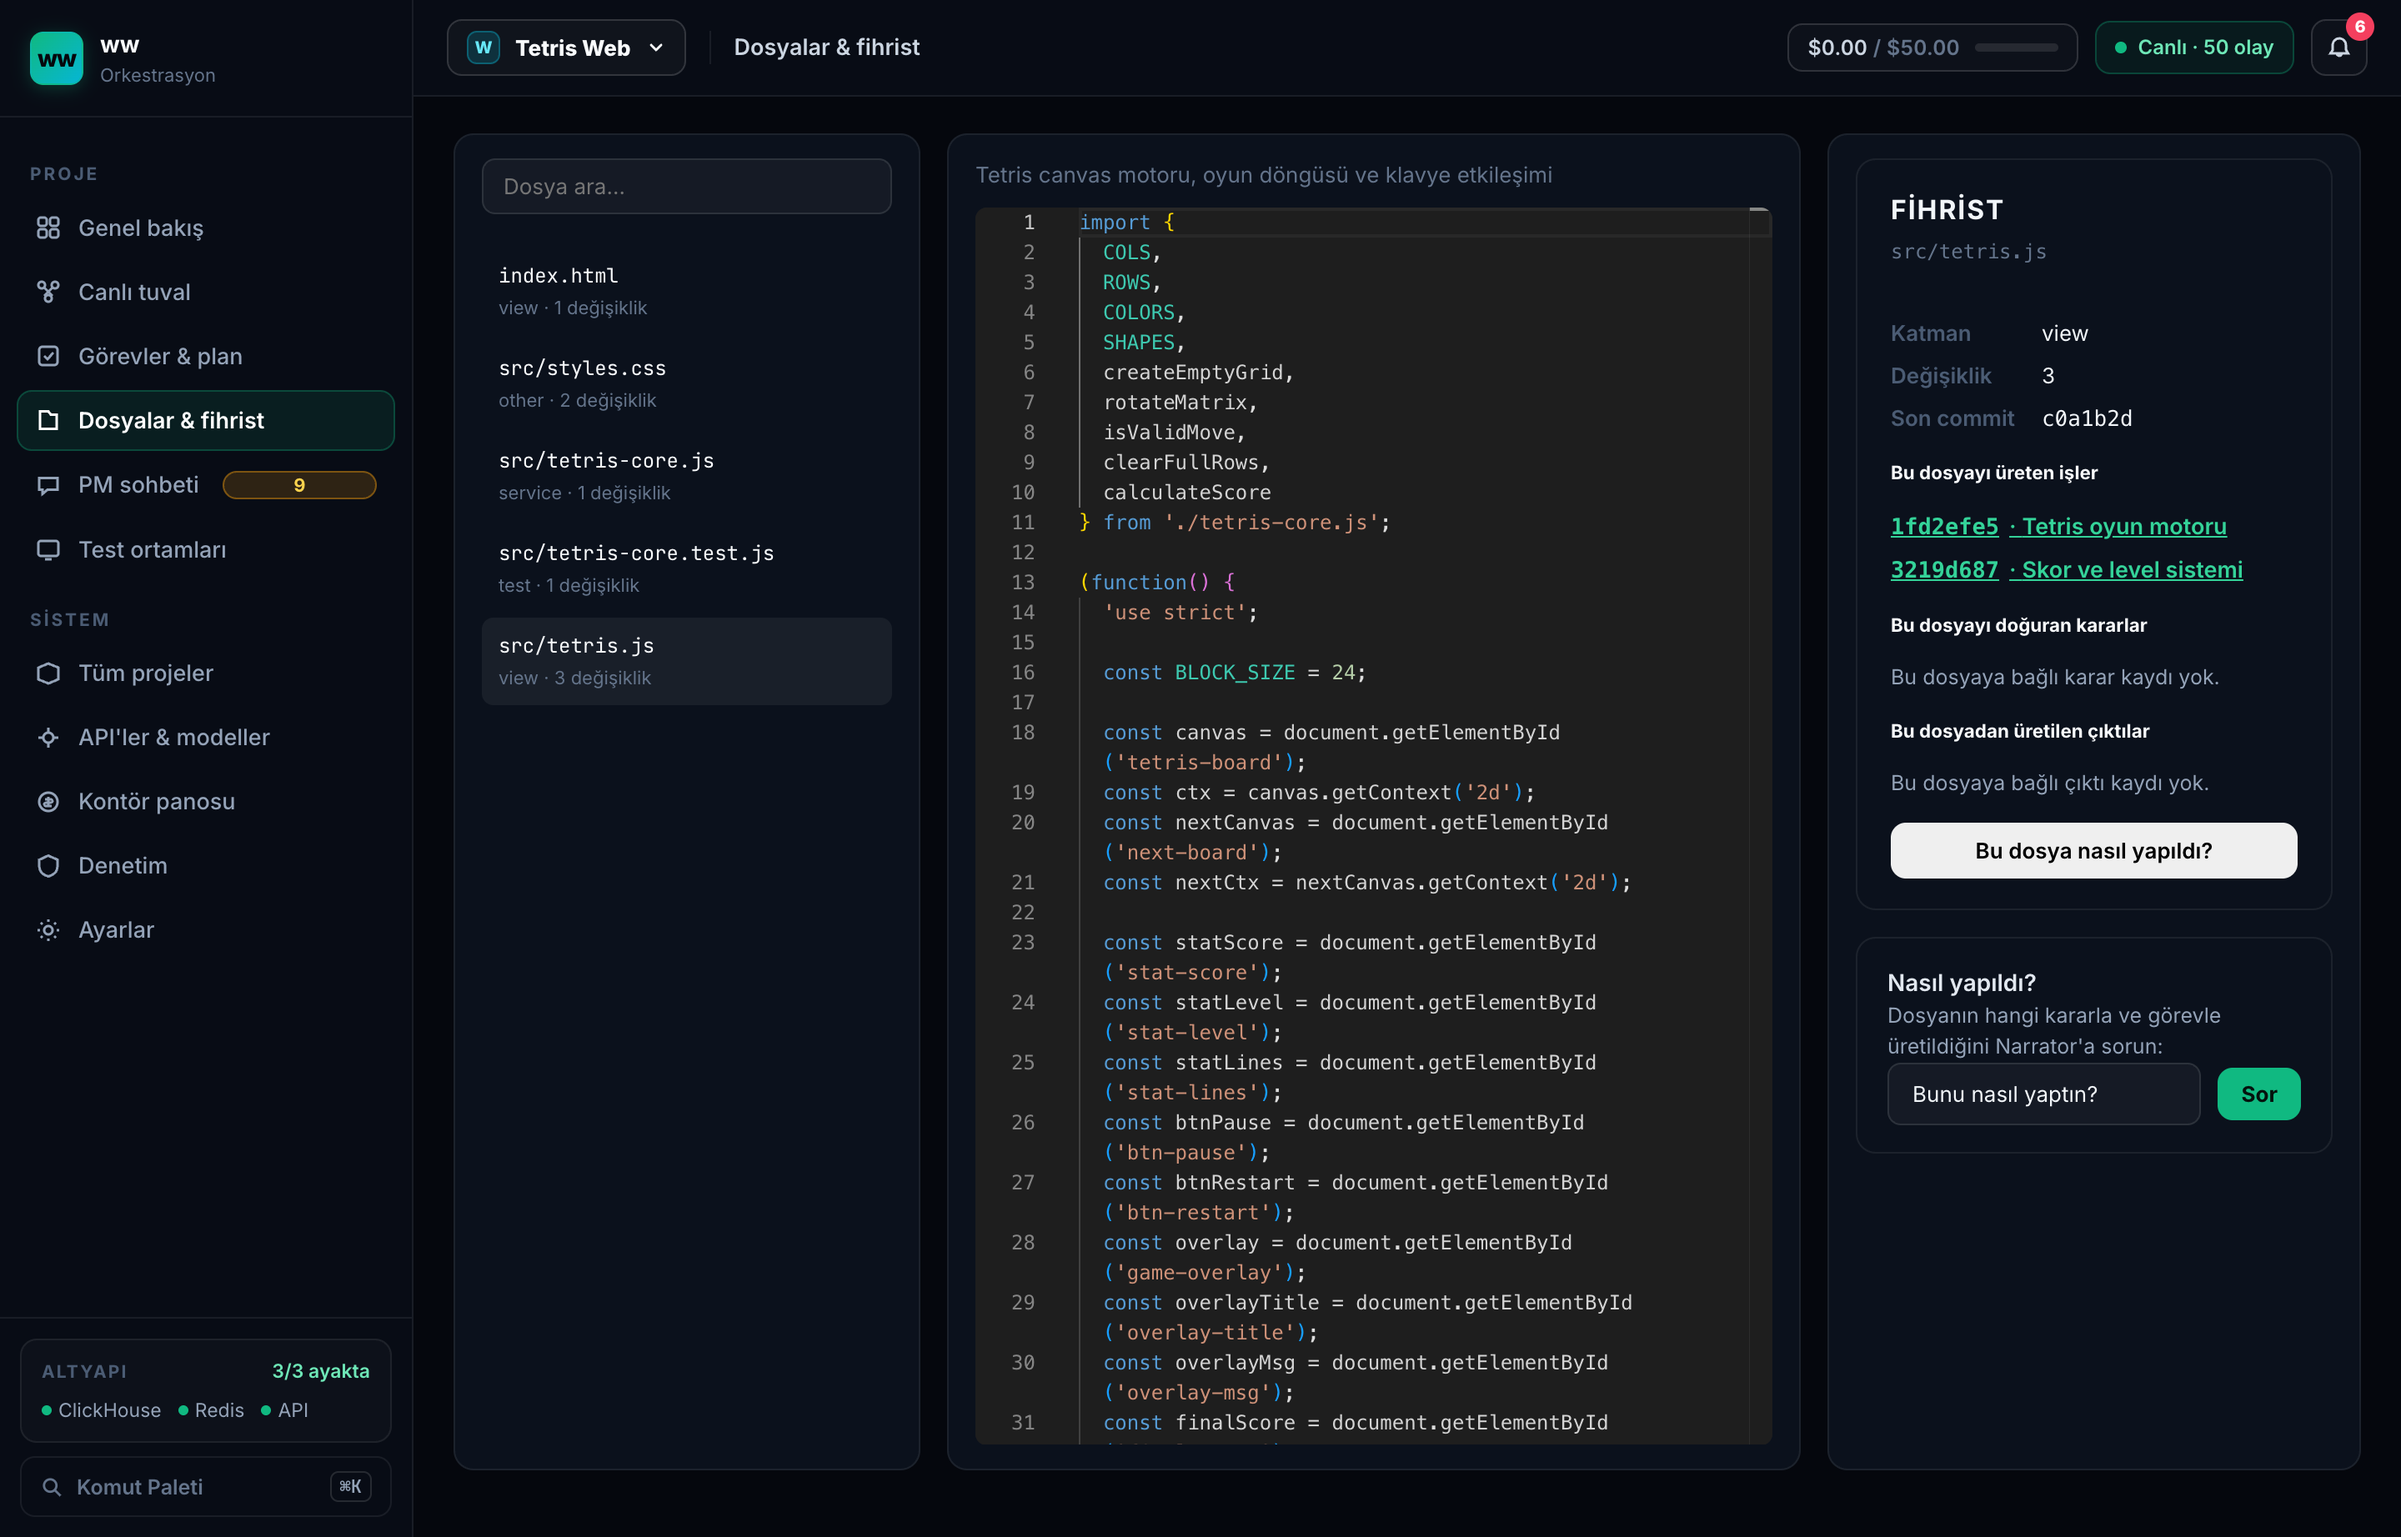
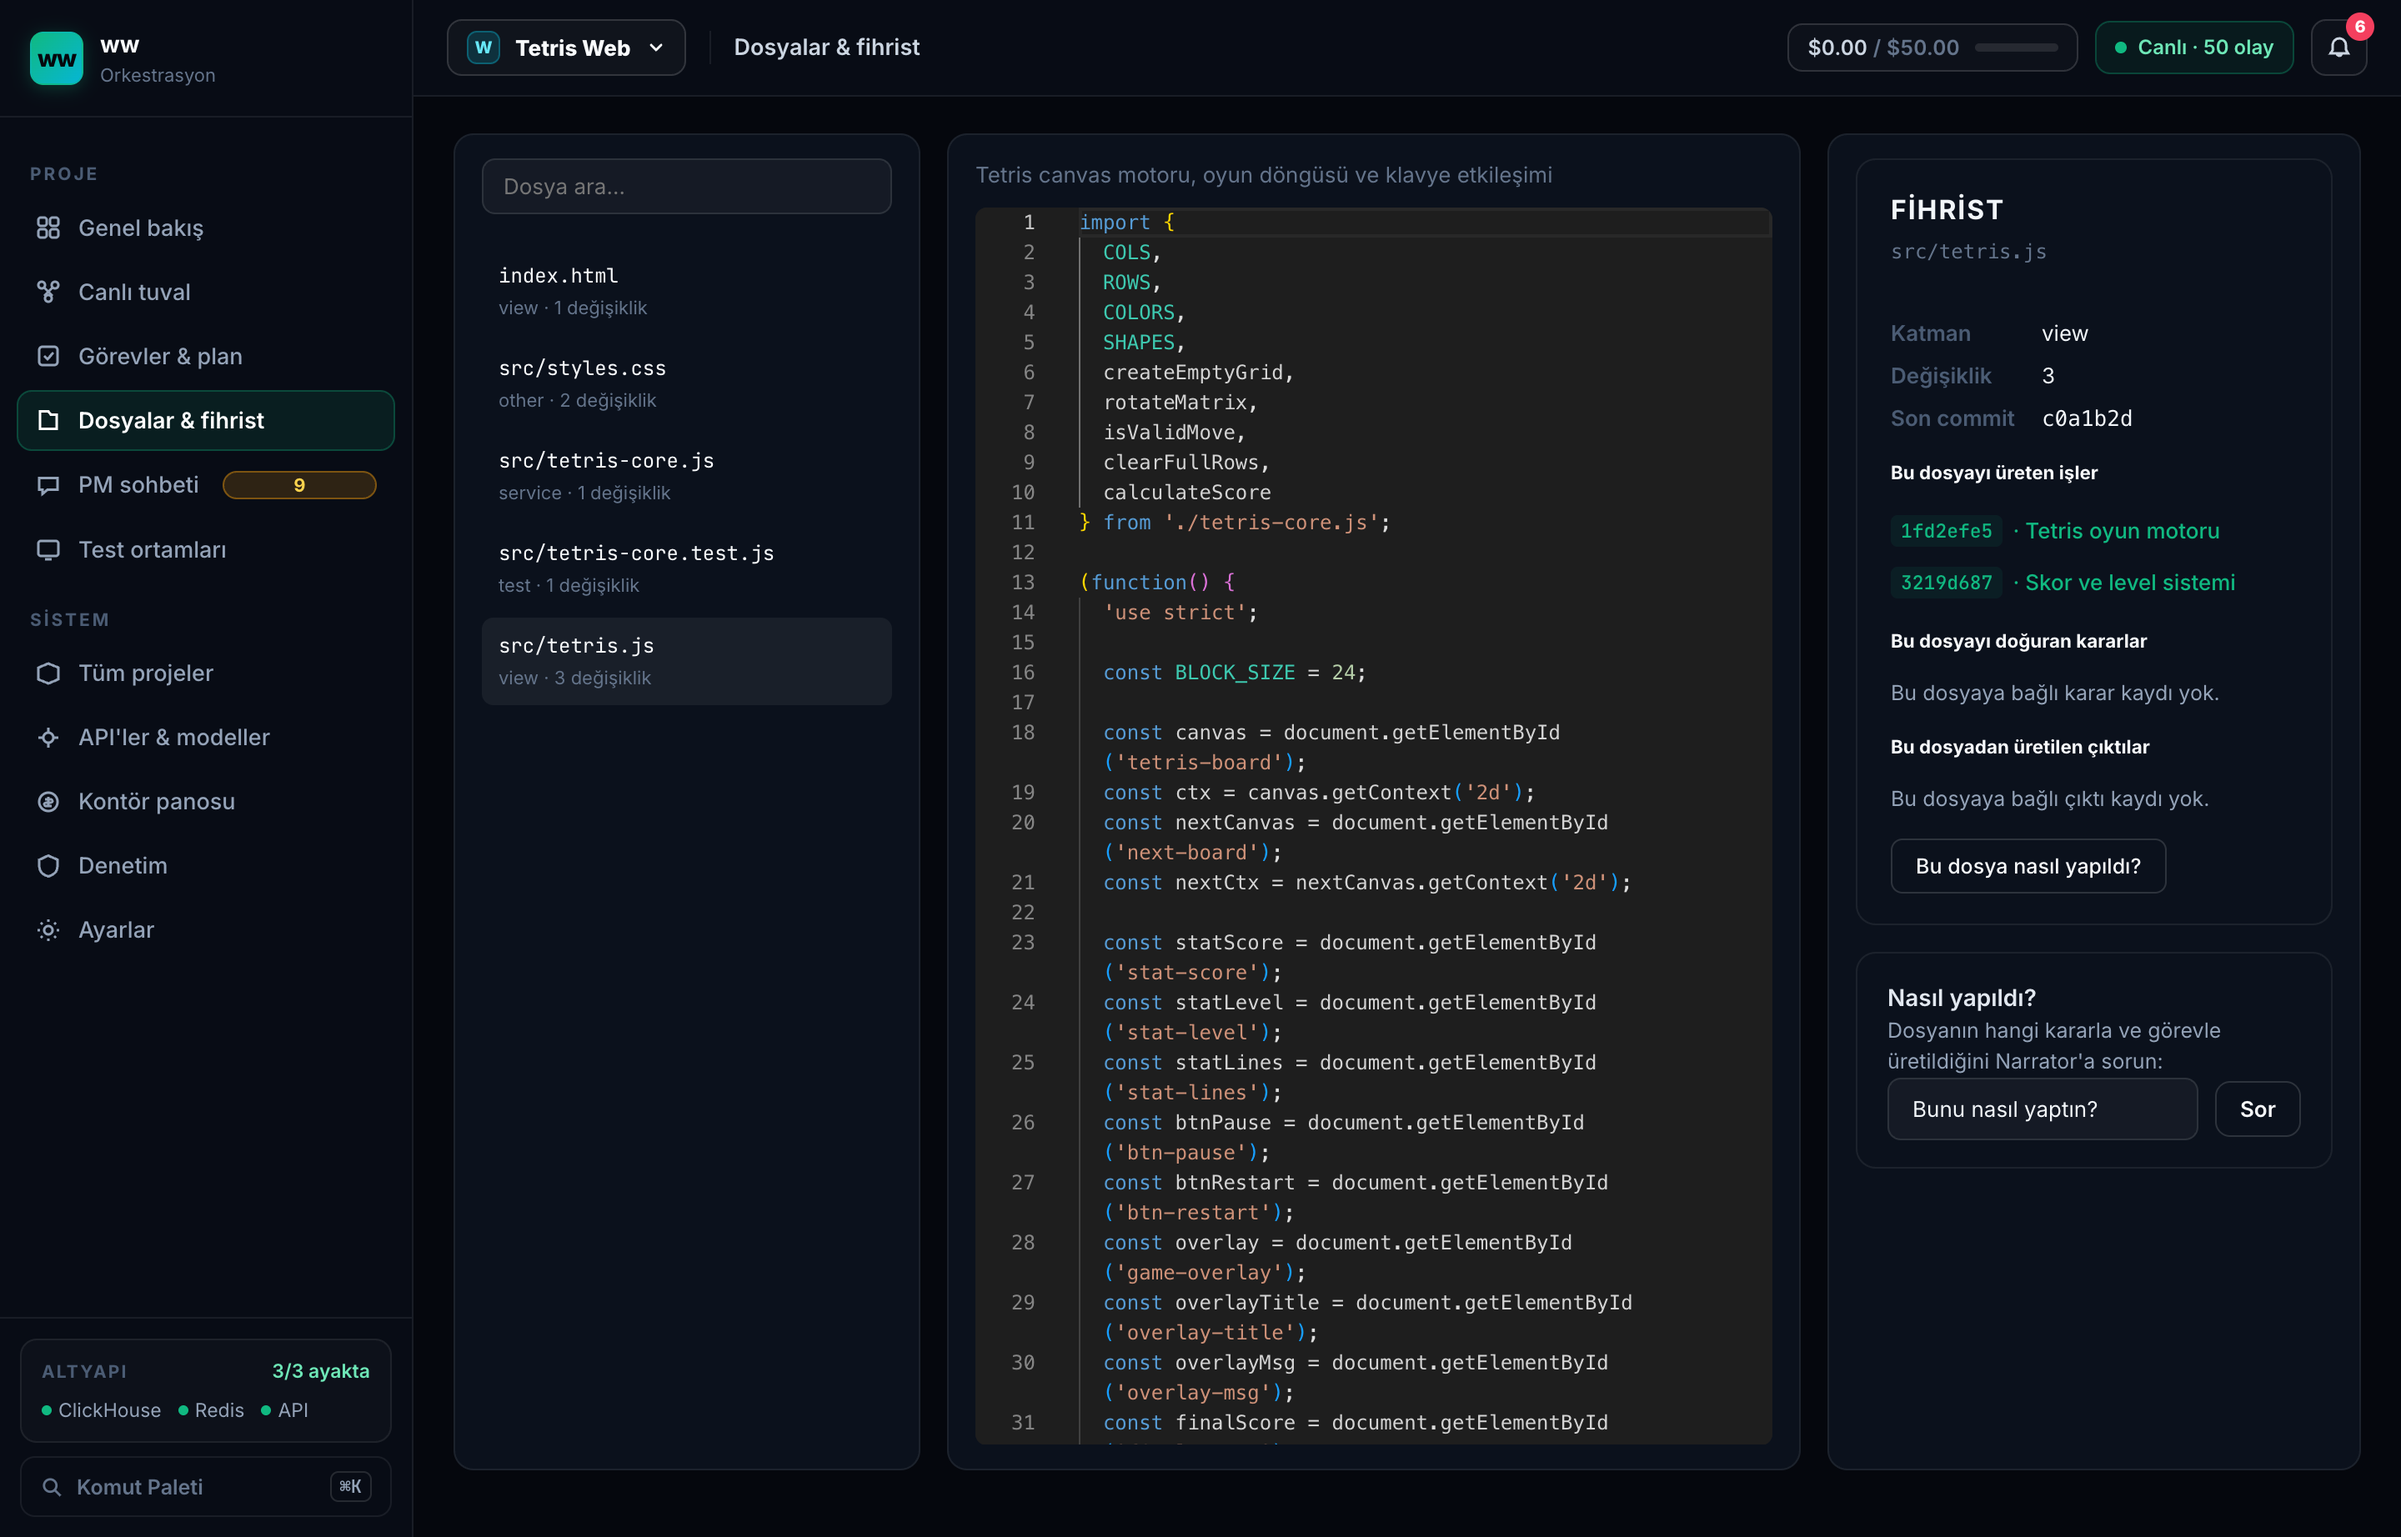
panel: fihrist butonlari, gorev baglantilari ve ikincil buton stilleri duzeltildi
- Fihrist Butonu: 'Bu dosya nasil yapildi?' butonu beyazdan seffaf cerceveli secondary stile donusturuldu.
- Gorev Baglantilari: Fihristteki gorev baglantilari accent yesili ve temiz linklike stiline kavusturuldu.
- Buton Hiyerarsisi: Dosyalar ekranindaki 'Sor' butonu ikincil yapildi; paneldeki tum button fallback'leri seffaf dark temaya sabitlendi.

Changed region(s): [[0.7812, 0.34, 0.9688, 0.5873], [0.7812, 0.6182, 0.9688, 0.7419]]

diff --git a/apps/panel/src/styles.css b/apps/panel/src/styles.css
@@ -758,7 +758,9 @@ button {
   align-items: center;
   justify-content: center;
   gap: 6px;
-  border: 1px solid transparent;
+  border: 1px solid rgba(255, 255, 255, 0.14);
+  background: rgba(255, 255, 255, 0.04);
+  color: #f8fafc;
 }
 
 .btn--primary {
@@ -3657,4 +3659,66 @@ input:focus, select:focus, textarea:focus {
 .role-model-table button:disabled {
   opacity: 0.35;
   cursor: not-allowed;
+}
+
+/* Fihrist Tasks and Action Buttons */
+.fihrist > button {
+  background: transparent;
+  border: 1px solid rgba(255, 255, 255, 0.14);
+  color: #f8fafc;
+  font-size: 12.5px;
+  font-weight: 500;
+  padding: 8px 14px;
+  border-radius: var(--radius-sm, 6px);
+  cursor: pointer;
+  transition: background var(--transition, 0.15s ease), border-color var(--transition, 0.15s ease);
+  display: inline-flex;
+  align-items: center;
+  justify-content: center;
+  width: auto;
+  align-self: flex-start;
+}
+.fihrist > button:hover:not(:disabled) {
+  background: rgba(255, 255, 255, 0.05);
+  border-color: rgba(255, 255, 255, 0.25);
+}
+.fihrist > button:disabled {
+  opacity: 0.5;
+  cursor: not-allowed;
+}
+
+.fihrist__tasks button,
+.fihrist__tasks button.linklike {
+  background: transparent;
+  border: none;
+  padding: 3px 0;
+  color: var(--accent, #34d399);
+  font-size: 13px;
+  font-weight: 500;
+  text-decoration: none;
+  cursor: pointer;
+  display: inline-flex;
+  align-items: center;
+  gap: 6px;
+  text-align: left;
+  transition: color var(--transition, 0.15s ease);
+}
+.fihrist__tasks button code,
+.fihrist__tasks button.linklike code {
+  color: var(--accent, #34d399);
+  background: rgba(16, 185, 129, 0.08);
+  padding: 2px 6px;
+  border-radius: 4px;
+  font-size: 11.5px;
+  font-family: 'JetBrains Mono', monospace;
+}
+.fihrist__tasks button:hover,
+.fihrist__tasks button.linklike:hover {
+  color: var(--accent-light, #a7f3d0);
+  text-decoration: underline;
+}
+.fihrist__tasks button:hover code,
+.fihrist__tasks button.linklike:hover code {
+  color: var(--accent-light, #a7f3d0);
+  background: rgba(16, 185, 129, 0.16);
 }

diff --git a/apps/panel/src/components/FileBrowserPanel.tsx b/apps/panel/src/components/FileBrowserPanel.tsx
@@ -90,7 +90,7 @@ export function FileBrowserPanel({
                 if (e.key === "Enter" && narratorQuestion.trim()) onAskNarrator();
               }}
             />
-            <button type="button" className="btn btn--primary" onClick={onAskNarrator}>
+            <button type="button" className="btn btn--secondary" onClick={onAskNarrator}>
               Sor
             </button>
           </div>
